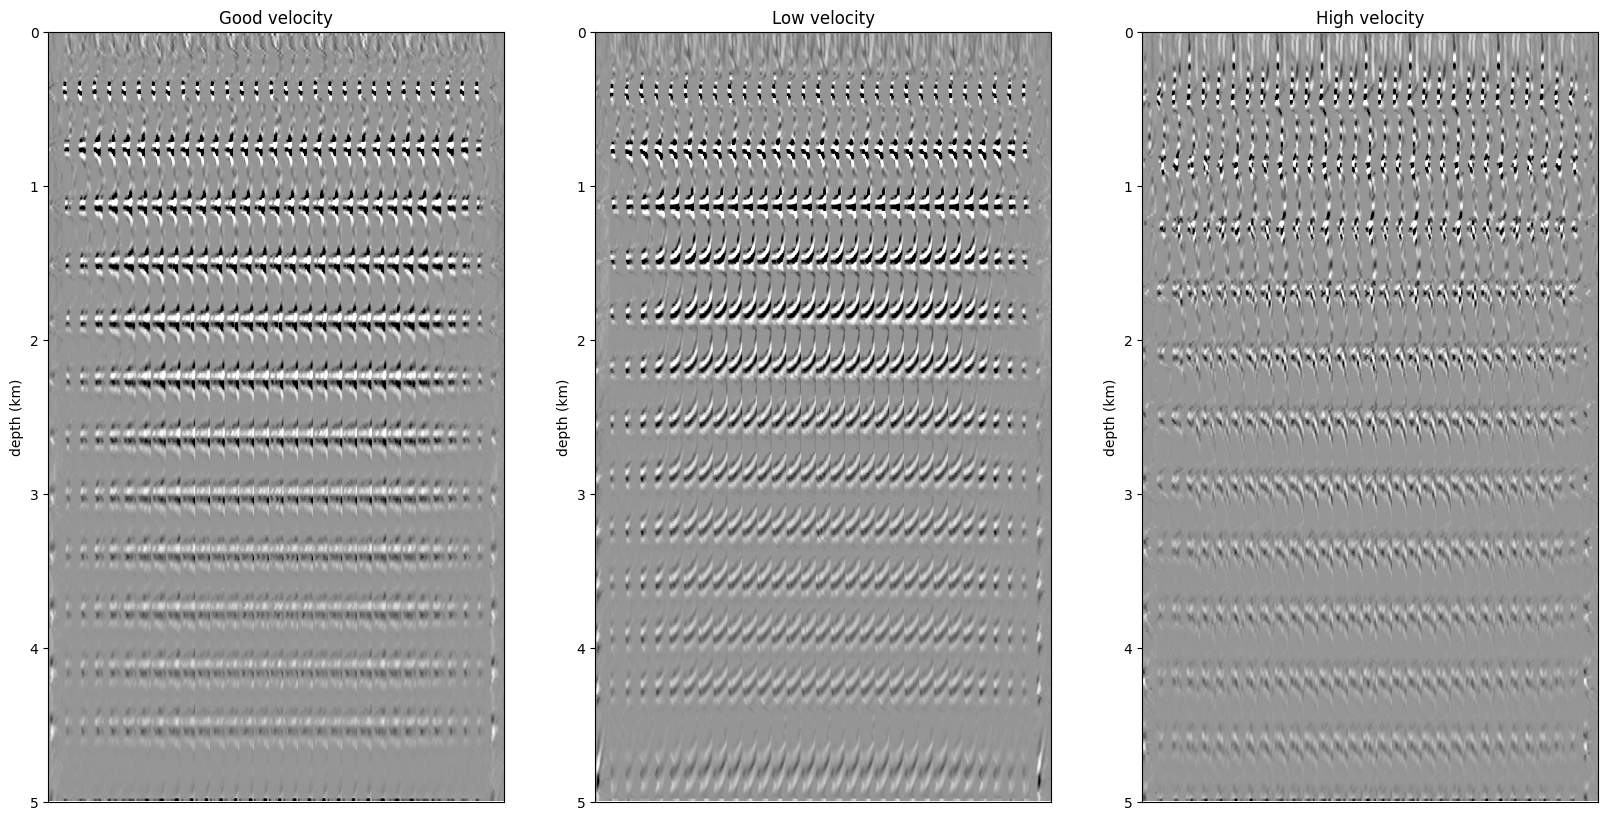
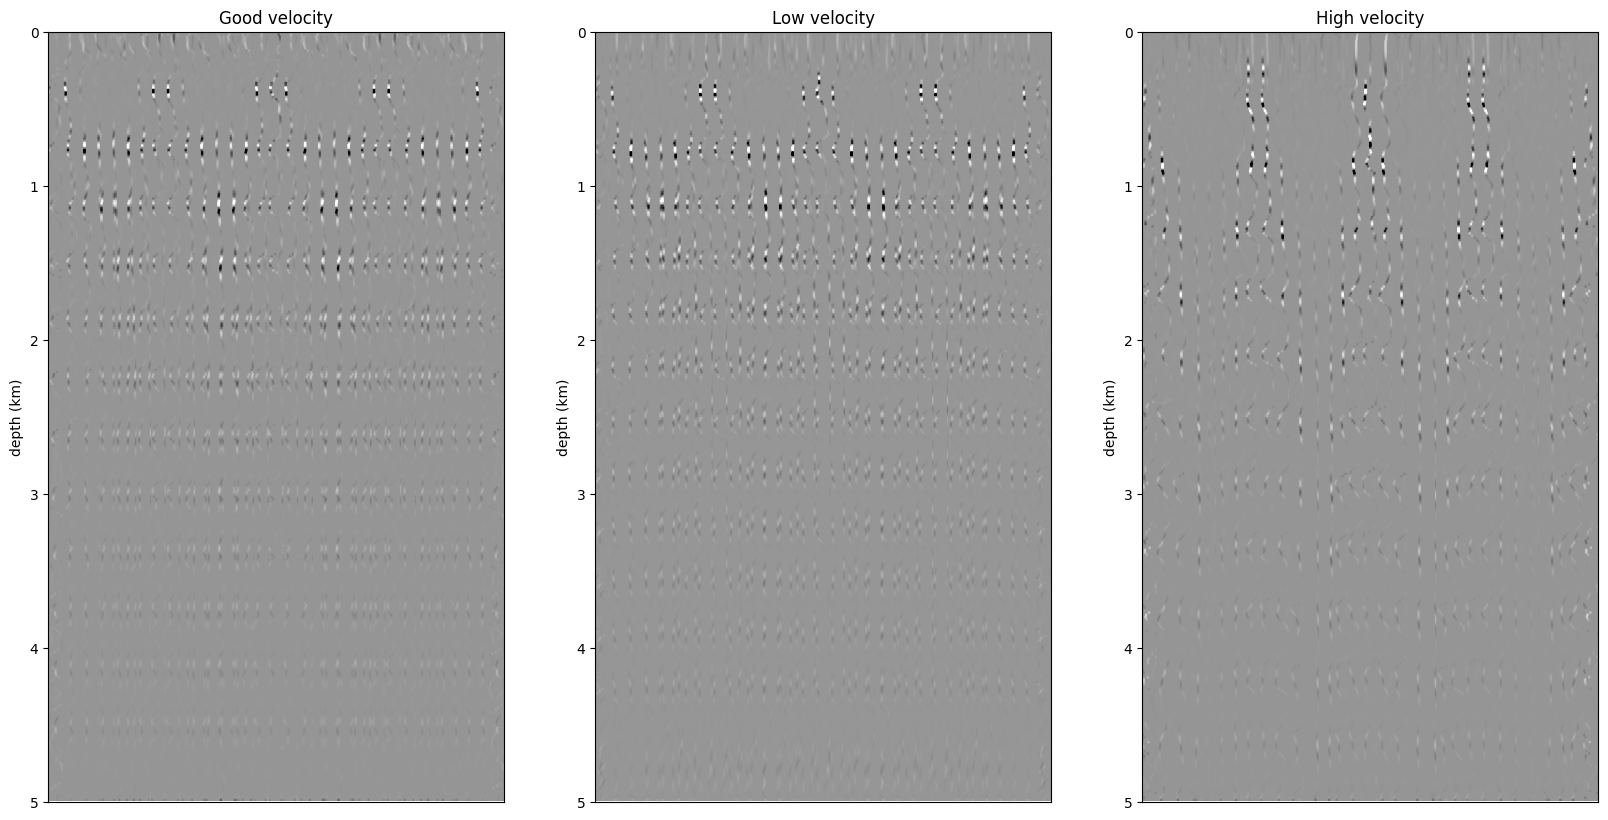
switchto judi3 and add subsurface offsets

diff --git a/src/implementation.py b/src/implementation.py
@@ -1,10 +1,11 @@
 from devito import Inc, Operator, Function, CustomDimension
+from devito.builtins import initialize_function
 
 import numpy as np
 
 from propagators import forward, gradient
 from geom_utils import src_rec
-from sensitivity import grad_expr
+from sensitivity import grad_expr, lin_src
 from wave_utils import wavefield
 from kernels import wave_kernel
 from utils import opt_op
@@ -70,54 +71,55 @@ def cig_grad(model, src_coords, wavelet, rec_coords, res, offsets, isic=False, s
     return gradm.data
 
 
-# def cig_lin(model, src_coords, wavelet, rec_coords, dm_ext, offsets, isic=False, space_order=8):
-#     """
-#     """
-#     nt = wavelet.shape[0]
-#     # Setting wavefield
-#     u = wavefield(model, space_order, nt=nt)
-#     ul = wavefield(model, space_order, name="l")
+def cig_lin(model, src_coords, wavelet, rec_coords, dm_ext, offsets, isic=False, space_order=8):
+    """
+    """
+    nt = wavelet.shape[0]
+    # Setting wavefield
+    u = wavefield(model, space_order, nt=nt)
+    ul = wavefield(model, space_order, name="l")
 
-#     # Set up PDE expression and rearrange
-#     pde = wave_kernel(model, u)
-#     if model.dm == 0:
-#         pdel = []
-#     else:
-#         qlin = ext_src(model, u, dm_ext, offsets, isic=isic)
-#         pdel = wave_kernel(model, ul, q=qlin)
+    # Set up PDE expression and rearrange
+    pde = wave_kernel(model, u)
+    qlin = ext_src(model, u, dm_ext, offsets, isic=isic)
+    pdel = wave_kernel(model, ul) + [Inc(ul.forward, qlin)]
 
-#     # Setup source and receiver
-#     geom_expr, _, _ = src_rec(model, u, rec_coords=None,
-#                               src_coords=src_coords, wavelet=wavelet)
-#     geom_exprl, _, rcvl = src_rec(model, ul, rec_coords=rec_coords, nt=nt)
+    # Setup source and receiver
+    geom_expr, _, _ = src_rec(model, u, rec_coords=None,
+                              src_coords=src_coords, wavelet=wavelet)
+    geom_exprl, _, rcvl = src_rec(model, ul, rec_coords=rec_coords, nt=nt)
 
-#     # Create operator and run
-#     subs = model.spacing_map
-#     op = Operator(pde + geom_expr + geom_exprl + pdel,
-#                   subs=subs, name="extborn", opt=opt_op(model))
-#     op.cfunction
-#     xm, xM = (nh - 1) // 2, N[0] - (nh - 1) // 2
-#     op(x_m=xm, x_M=xM)
-#     op()
+    # Create operator and run
+    subs = model.spacing_map
+    op = Operator(pde + geom_expr + pdel + geom_exprl,
+                  subs=subs, name="extborn", opt=opt_op(model))
+    op.cfunction
 
-#     # Output
-#     return rcvl.data
+    # Remove edge for offsets
+    N = model.grid.shape
+    nh = offsets.shape[0]
+    xm, xM = (nh - 1) // 2, N[0] - (nh - 1) // 2
+    op(x_m=xm, x_M=xM)
+
+    # Output
+    return rcvl.data
 
 
-# def ext_src(model, u, dm_ext, offsets, isic=False)
-#     dims = model.grid.dimensions
-#     N = model.grid.shape
-#     nh = offsets.shape[0]
-#     offs = CustomDimension("hdim", 0, nh-1, nh)
-#     oh = Function(name="hvals", grid=model.grid, space_order=0,
-#                 dimensions=(offs,), shape=(nh,), dtype=np.int32)
-#     oh.data[:] = offsets // model.grid.spacing[0]
-#     # Extended perturbation
-#     dm = Function(name="gradm", grid=model.grid, dimensions=(offs, *dims),
-#                     shape=(len(offsets), *N), space_order=0)
-#     dm.data[:] = dm_ext
-
-#     # extended source
-#     uh = u._subs(dims[0], dims[0]+oh)
-#     ql = lin_src(model, u, isic=isic)
-#     ql = ql.subs({u: uh, dm: dm})
+def ext_src(model, u, dm_ext, offsets, isic=False):
+    dims = model.grid.dimensions
+    N = model.grid.shape
+    nh = offsets.shape[0]
+    offs = CustomDimension("hdim", 0, nh-1, nh)
+    oh = Function(name="hvals", grid=model.grid, space_order=0,
+                dimensions=(offs,), shape=(nh,), dtype=np.int32)
+    oh.data[:] = offsets // model.grid.spacing[0]
+    # Extended perturbation
+    dm = Function(name="gradm", grid=model.grid, dimensions=(offs, *dims),
+                  shape=(len(offsets), *N), space_order=0)
+    initialize_function(dm, dm_ext,[(0, 0)] + model.padsizes)
+    from IPython import embed; embed()
+    # extended source
+    uh = u._subs(dims[0], dims[0]-oh)
+    dt = u.grid.time_dim.spacing
+    ql = dt**2 /model.m * uh.dt2 * dm._subs(dims[0], dims[0]+oh)
+    return ql
